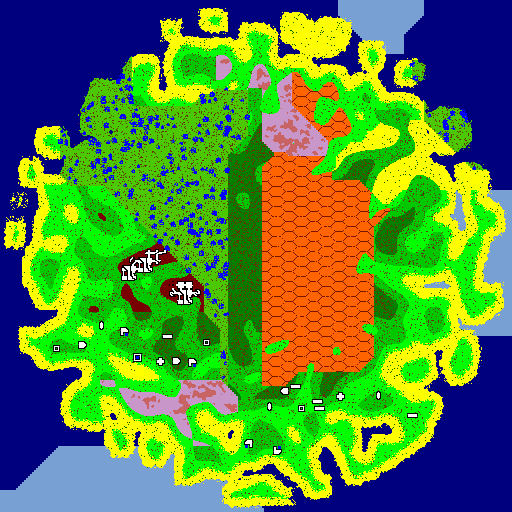
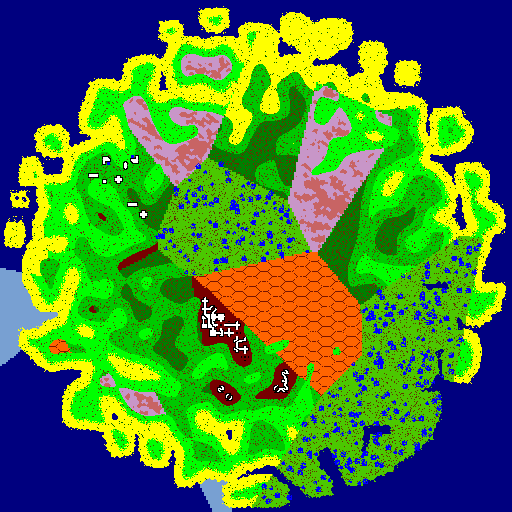
added more fonts

diff --git a/__init__.py b/__init__.py
@@ -10,14 +10,18 @@ import csv
 import random
 
 # actual size of the window
-SCREEN_WIDTH = 160
-SCREEN_HEIGHT = 100
+SCREEN_WIDTH = 90
+SCREEN_HEIGHT = 65
+
+FONT_SIZE = 12  # 8 = small, 12 = normal, 16 = big
 
 # size of the map
 MAP_SIZE = 512
 
-VISUAL_WIDTH = 150
-VISUAL_HEIGHT = 90
+VISUAL_WIDTH = 75
+VISUAL_HEIGHT = 55
+VISUAL_WIDTH_OFFSET = 0
+VISUAL_HEIGHT_OFFSET = 1
 
 LIMIT_FPS = 120  # 120 frames-per-second maximum (for testing)
 
@@ -25,9 +29,10 @@ FOV_ALGO = 0  # default FOV algorithm
 FOV_LIGHT_WALLS = True
 TORCH_RADIUS = 10
 
-game_status = 1 # 0 = generator, 1 = game, 2 = menu
+game_status = 1  # 0 = generator, 1 = game, 2 = menu
 
 shared_percent = Value(c_int)
+
 
 class Info_text:
     def __init__(self, value):
@@ -68,7 +73,8 @@ class Object:
 class Player(Object):
     def draw(self):
         libtcod.console_set_default_foreground(con, self.color)
-        libtcod.console_put_char(con, VISUAL_WIDTH / 2, VISUAL_HEIGHT / 2, self.char, libtcod.BKGND_NONE)
+        libtcod.console_put_char(con, VISUAL_WIDTH / 2 + VISUAL_WIDTH_OFFSET, VISUAL_HEIGHT / 2 + VISUAL_HEIGHT_OFFSET,
+                                 self.char, libtcod.BKGND_NONE)
 
 
 def update_visual_map():
@@ -81,11 +87,11 @@ def update_visual_map():
             if map_x < size and map_y < size:
                 visual[x][y] = map[map_x * size + map_y]
 
-def make_visual_map():
 
+def make_visual_map():
     # fill map with "unblocked" tiles
     global visual
-    visual = [[tiles.Tile(0,'?', 0, 0,"debug","")
+    visual = [[tiles.Tile(0, '?', 0, 0, "debug", "")
                for y in range(VISUAL_HEIGHT)]
               for x in range(VISUAL_WIDTH)]
 
@@ -111,7 +117,8 @@ def render_all():
                     tile_color = tile_list[id].animation_color
 
             libtcod.console_set_default_foreground(con, getattr(color, tile_color))
-            libtcod.console_put_char(con, x, y, tile_list[id].char, libtcod.BKGND_NONE)
+            libtcod.console_put_char(con, x + VISUAL_WIDTH_OFFSET, y + VISUAL_HEIGHT_OFFSET, tile_list[id].char,
+                                     libtcod.BKGND_NONE)
 
     # draw all objects in the list
     for object in objects:
@@ -147,12 +154,13 @@ def handle_keys():
     elif libtcod.console_is_key_pressed(libtcod.KEY_RIGHT):
         player.move(1, 0)
 
+
 def load_tiles():
     with open("data/configurations/tiles.csv", 'rb') as f:
         mycsv = csv.reader(f, delimiter=';')
         mycsv = list(mycsv)
 
-    for value in range(len(mycsv)-1):
+    for value in range(len(mycsv) - 1):
         name = mycsv[value + 1][1]
         char = mycsv[value + 1][2]
         behavior = int(mycsv[value + 1][6])
@@ -160,9 +168,8 @@ def load_tiles():
         color = mycsv[value + 1][8]
         animation_color = mycsv[value + 1][9]
 
-        tile = tiles.Tile(name,char,behavior,sight_block,color,animation_color)
+        tile = tiles.Tile(name, char, behavior, sight_block, color, animation_color)
         tile_list.append(tile)
-
 
 
 def update_info(text):
@@ -175,7 +182,8 @@ def update_info(text):
 # Initialization & Main Loop
 #############################################
 
-libtcod.console_set_custom_font('terminal8x8_gs_as.png', libtcod.FONT_TYPE_GREYSCALE | libtcod.FONT_LAYOUT_ASCII_INCOL)
+libtcod.console_set_custom_font('data/fonts/terminal' + str(FONT_SIZE) + 'x' + str(FONT_SIZE) + '_gs_ro.png',
+                                libtcod.FONT_TYPE_GREYSCALE | libtcod.FONT_LAYOUT_ASCII_INROW)
 libtcod.console_init_root(SCREEN_WIDTH, SCREEN_HEIGHT, 'ASCII Adventure', False)
 libtcod.sys_set_fps(LIMIT_FPS)
 con = libtcod.console_new(SCREEN_WIDTH, SCREEN_HEIGHT)
@@ -214,6 +222,10 @@ while not libtcod.console_is_window_closed():
         # erase all objects at their old locations, before they move
         for object in objects:
             object.clear()
+
+        ###########################
+        # DRAW INTERFACE HERE
+        ###########################
 
         # handle keys and exit game if needed
         exit = handle_keys()

diff --git a/island_generator.py b/island_generator.py
@@ -547,7 +547,7 @@ def generate_biomes(tilemap):
             dmin = math.hypot(size - 1, size - 1)
             j = -1
             for i in range(24):
-                d = math.floor(math.fabs(nx[i] - x) + math.fabs(ny[i] - y) + 1)
+                d = math.sqrt((nx[i] - x)**2 + (ny[i] - y)**2)#math.floor(math.fabs(nx[i] - x) + math.fabs(ny[i] - y) + 1)
                 if d < dmin:
                     dmin = d
                     j = i

diff --git a/tiles.py b/tiles.py
@@ -1,6 +1,6 @@
 class Tile:
     # a tile of the map and its properties
-    def __init__(self,id,char, behavior, sight_blocked,color,animation_color):
+    def __init__(self, id, char, behavior, sight_blocked, color, animation_color):
         self.id = id
         self.char = char
         self.behavior = behavior
@@ -13,4 +13,3 @@ class Tile:
 
         if self.color == "":
             self.color = "debug"
-

diff --git a/README.md b/README.md
@@ -3,7 +3,4 @@
     /  \  | (___ | |      | |   | |  
    / /\ \  \___ \| |      | |   | |  
   / ____ \ ____) | |____ _| |_ _| |_ 
- /_/    \_\_____/ \_____|_____|_____|
-                                     
-                                     
-                                                                                        
+ /_/    \_\_____/ \_____|_____|_____|                                                                                   
